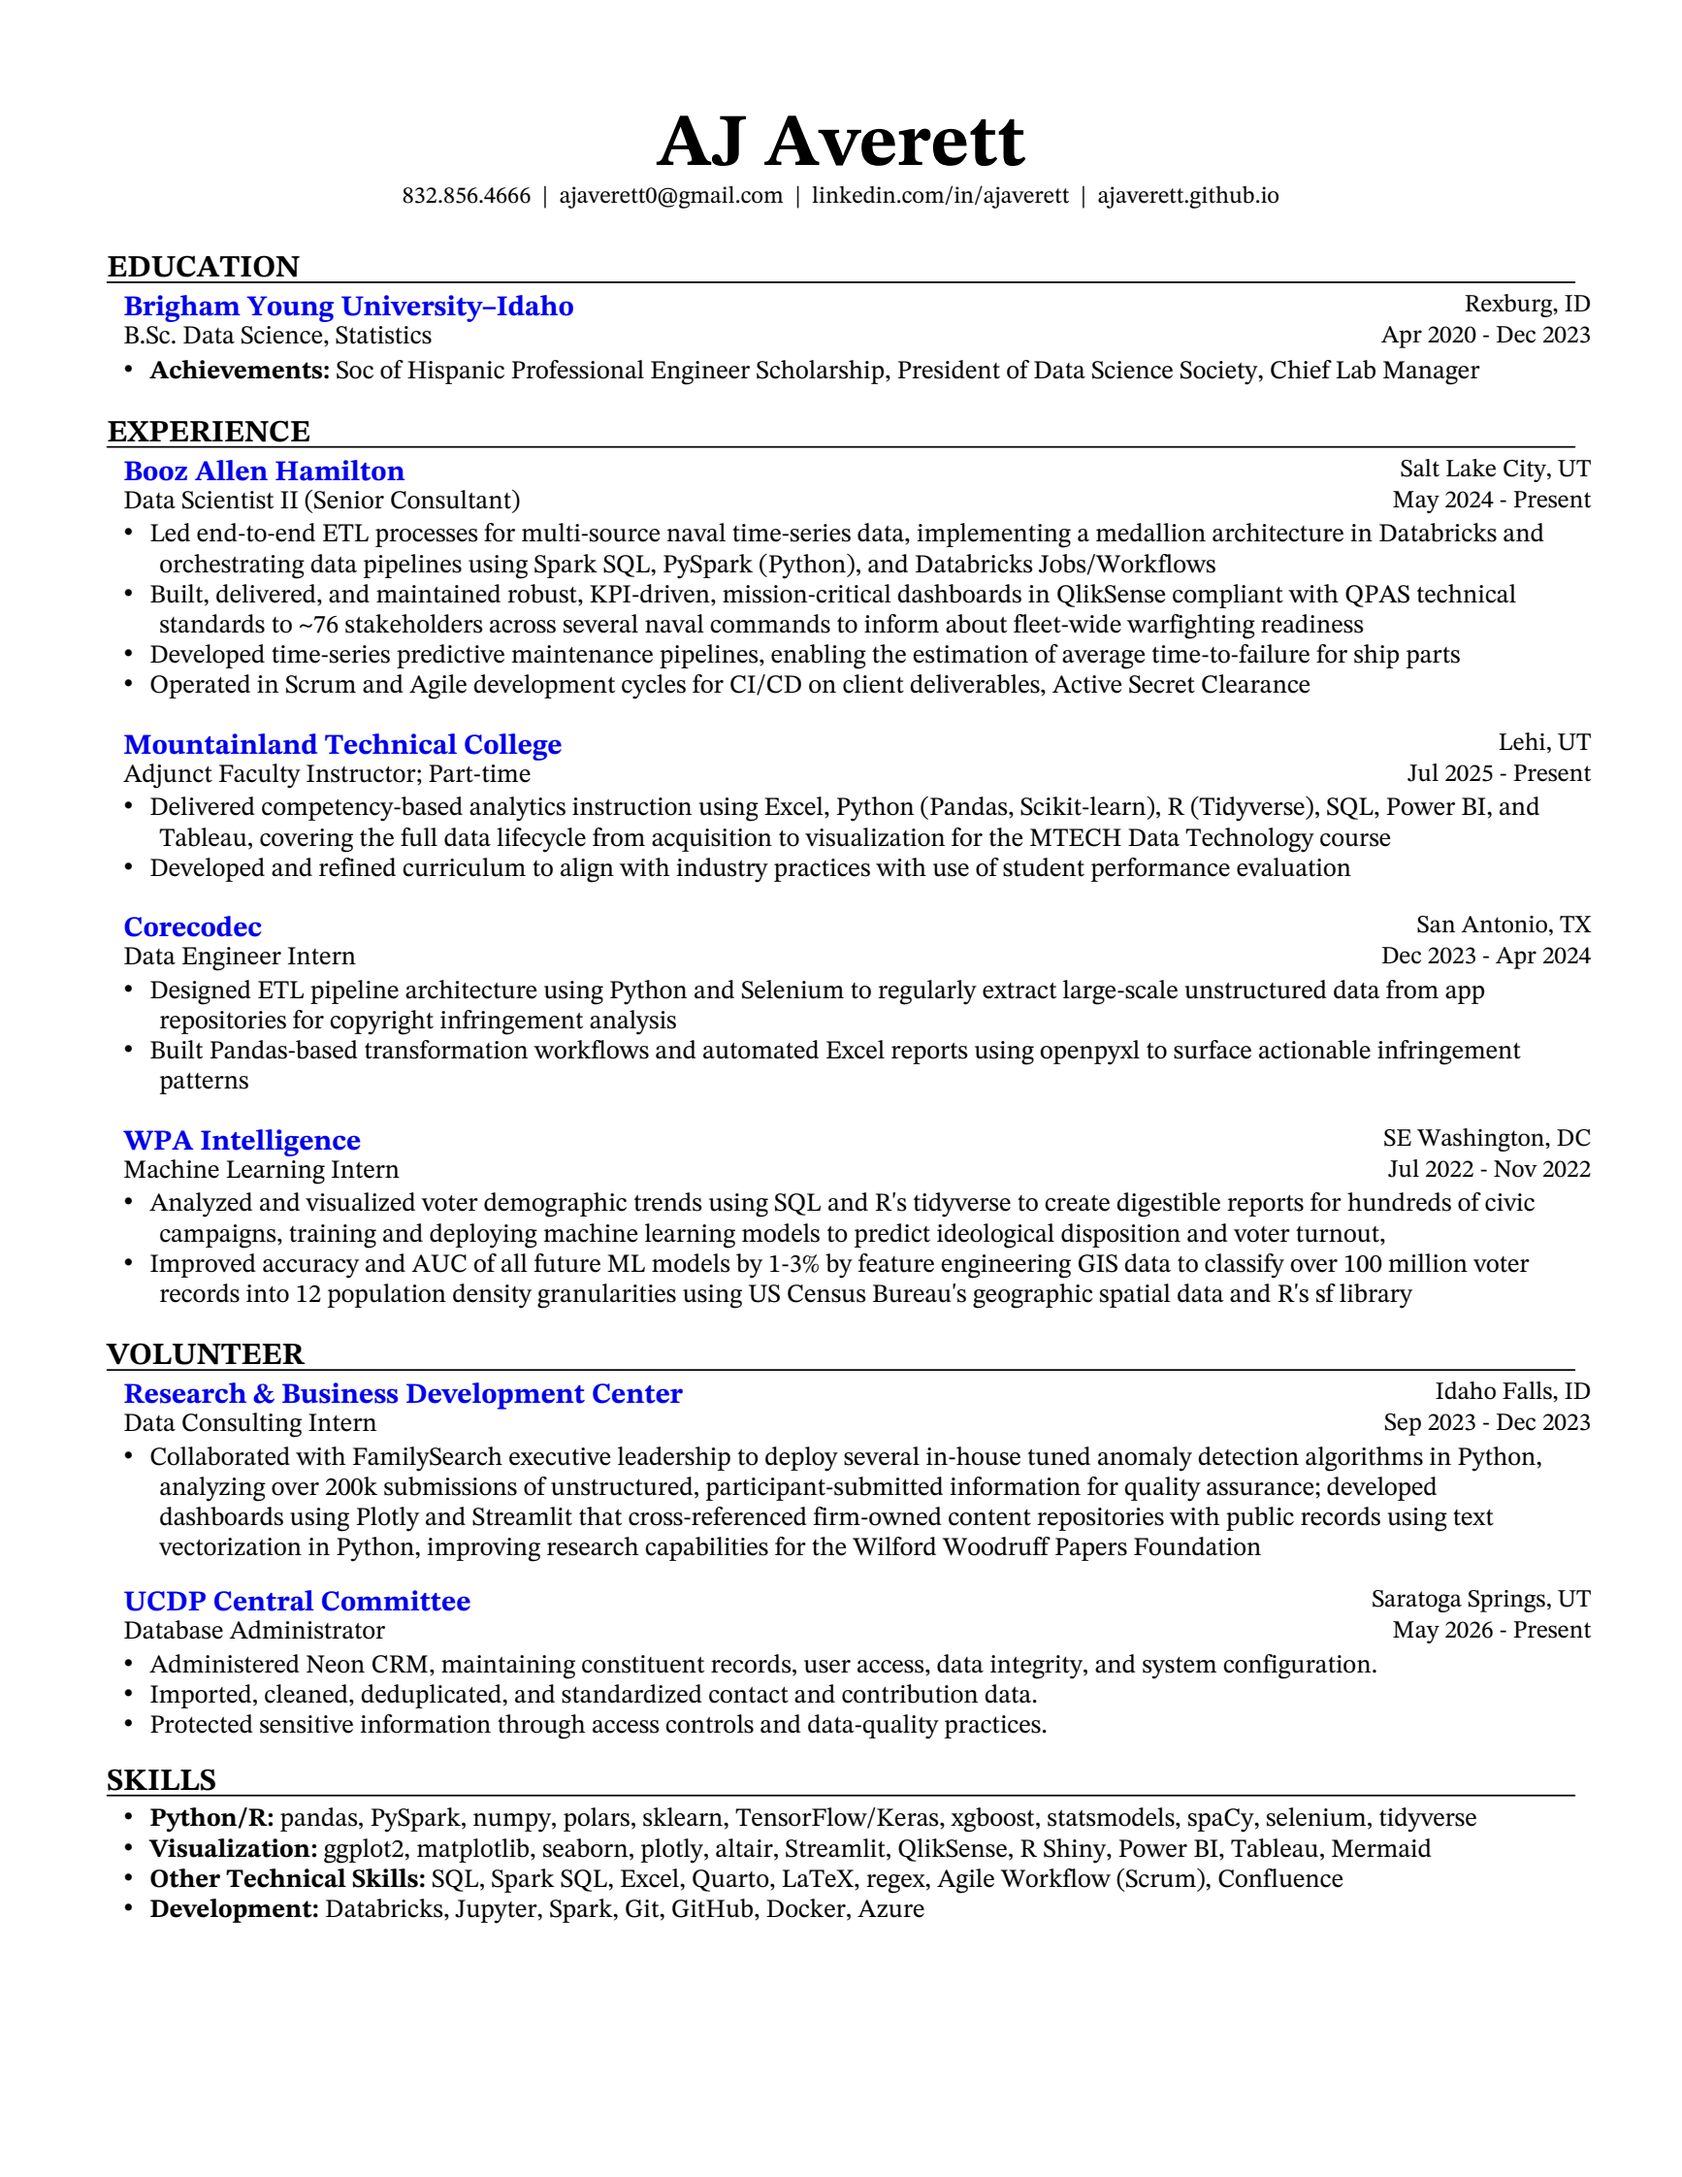
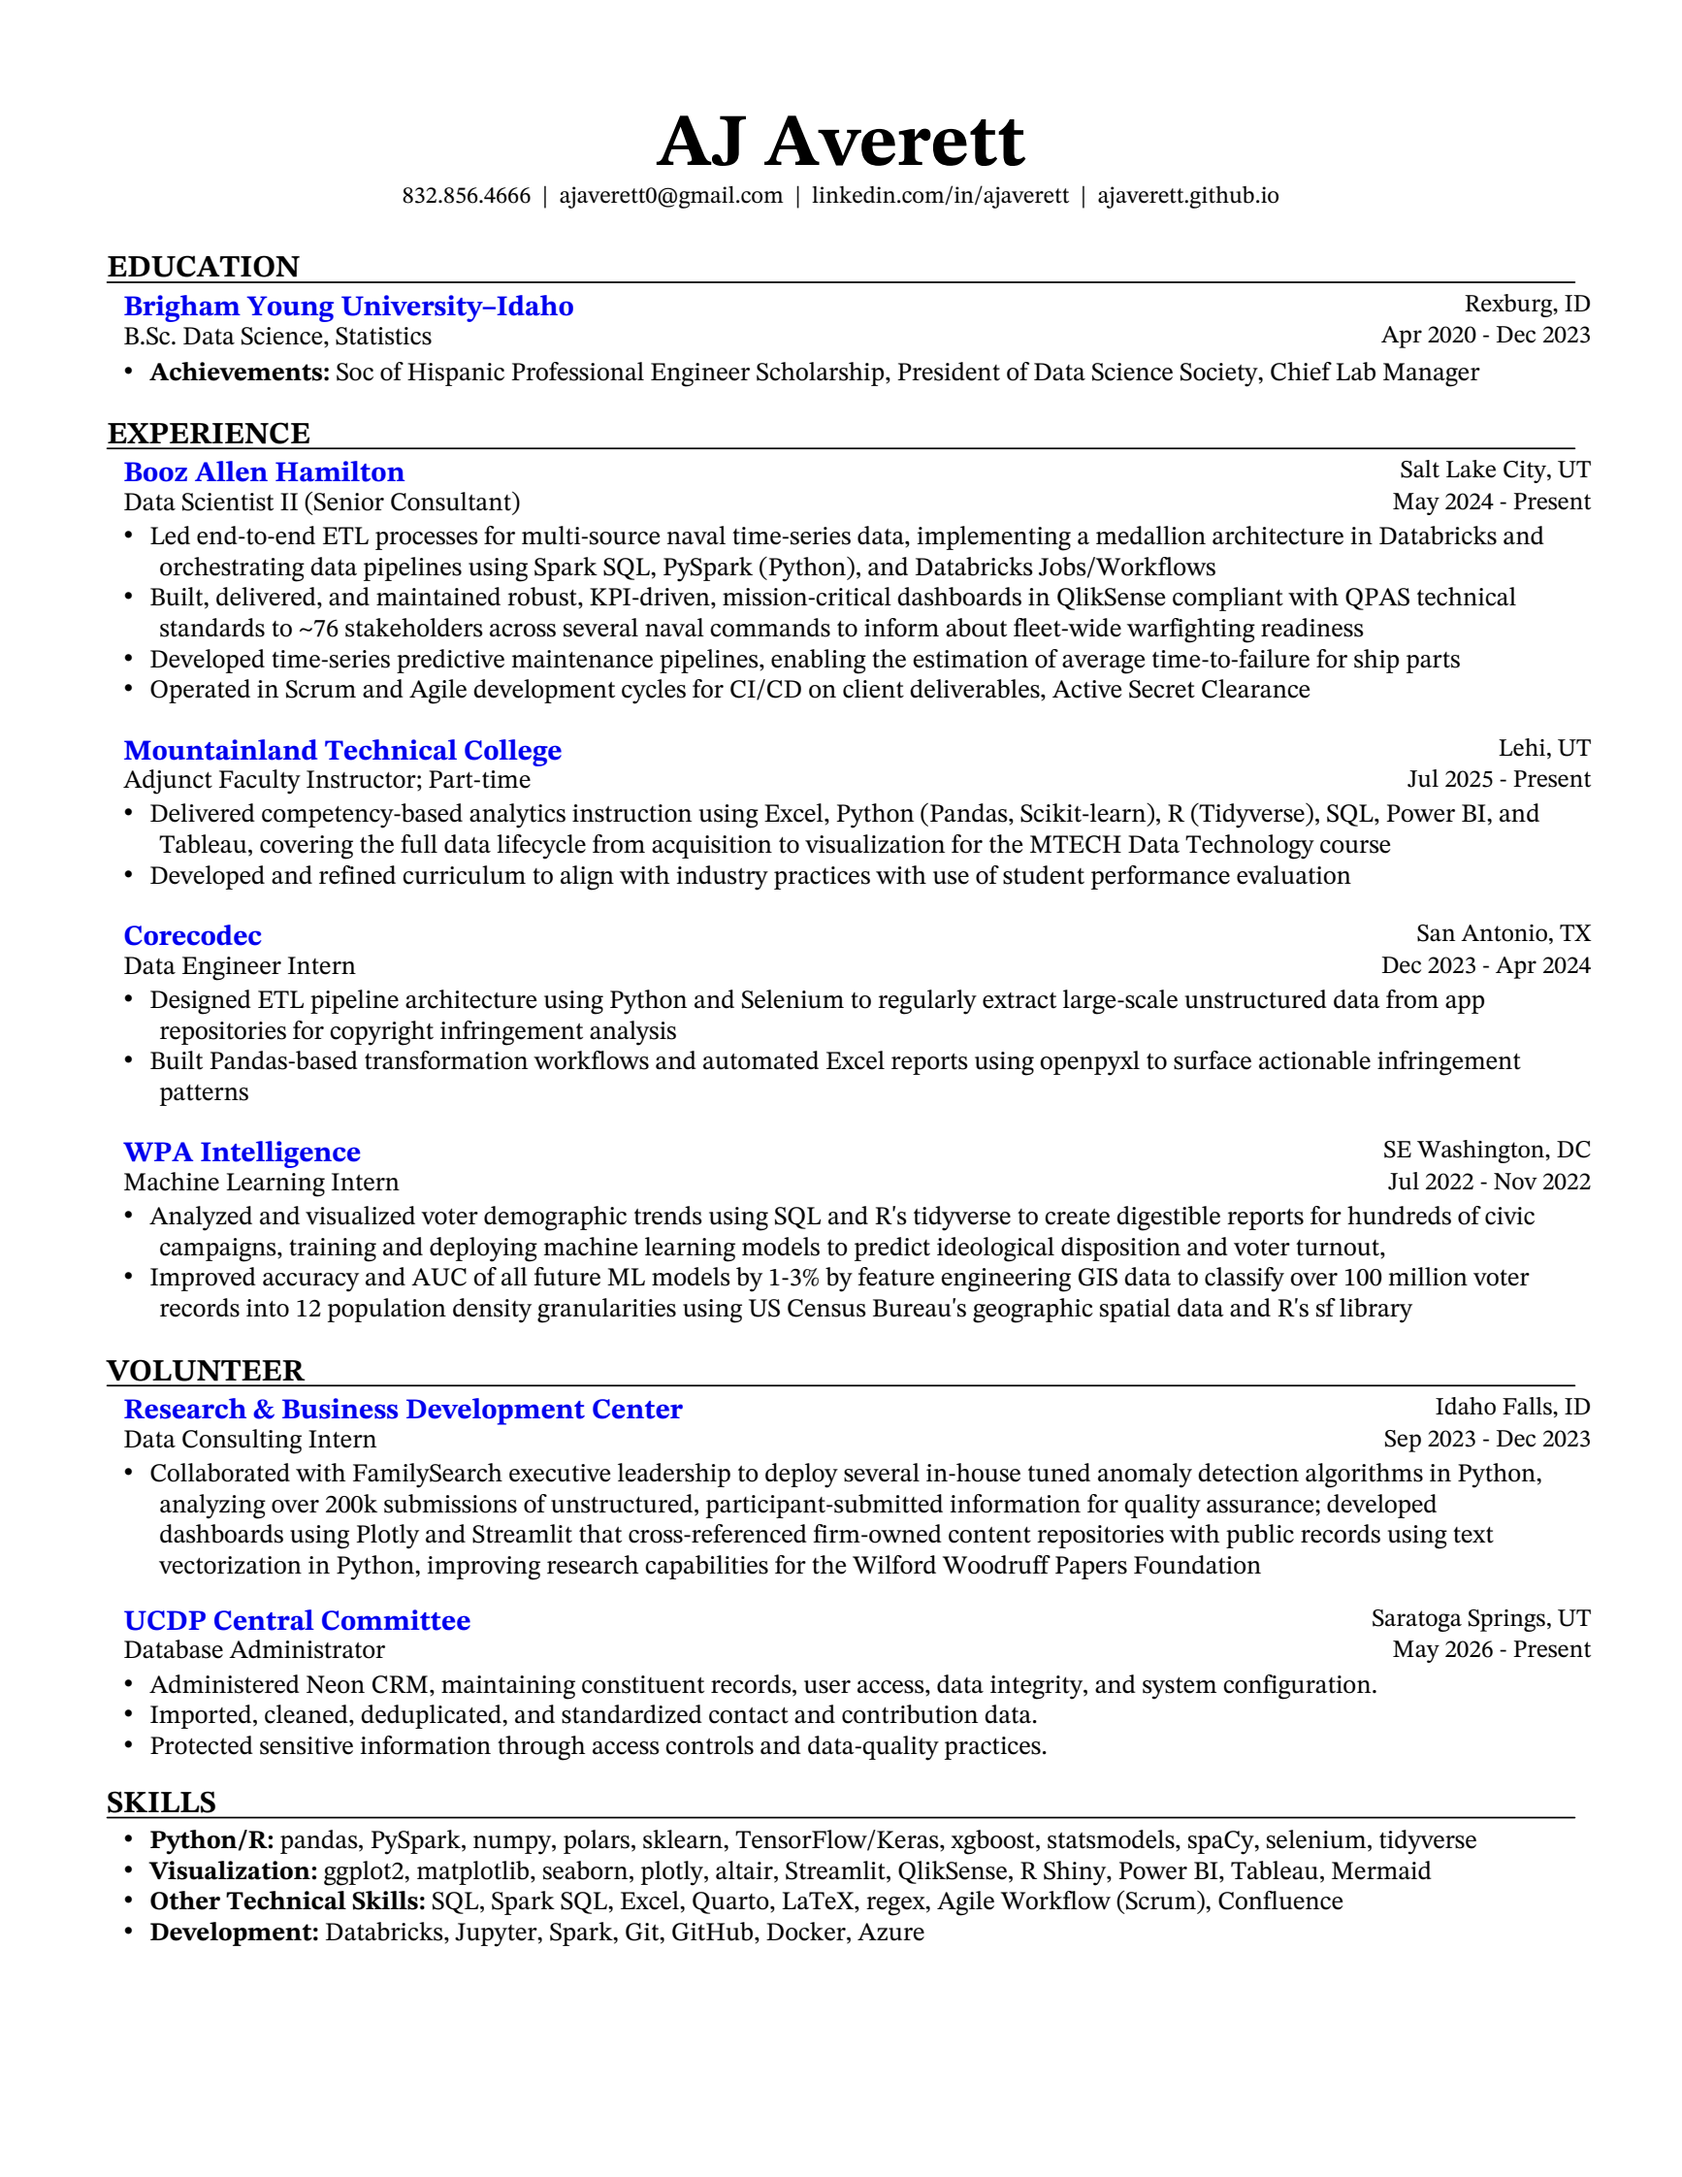
Slightly increase resume vertical spacing

diff --git a/scripts/generate_resume.py b/scripts/generate_resume.py
@@ -130,28 +130,28 @@ def build_pdf(data: dict) -> None:
         "Company",
         fontName=BOLD,
         fontSize=10.4,
-        leading=11.3,
+        leading=11.45,
         textColor=BLUE,
     )
     body_style = ParagraphStyle(
         "Body",
         fontName=REGULAR,
         fontSize=9.4,
-        leading=11,
+        leading=11.15,
     )
     right_style = ParagraphStyle(
         "Right",
         parent=body_style,
         alignment=TA_RIGHT,
         fontSize=9,
-        leading=10.6,
+        leading=10.75,
     )
     achievement_style = ParagraphStyle(
         "Achievement",
         parent=body_style,
         leftIndent=13,
         firstLineIndent=-8,
-        spaceBefore=1.8,
+        spaceBefore=1.9,
     )
     bullet_style = ParagraphStyle(
         "Bullet",
@@ -263,13 +263,15 @@ def build_pdf(data: dict) -> None:
                 )
                 for bullet in role["resumeBullets"]
             ]
-            entry = [heading, Spacer(1, 1.2), *bullets]
+            entry = [heading, Spacer(1, 1.3), *bullets]
             story.append(KeepTogether(entry))
 
             if index != len(group_roles) - 1:
-                story.append(Spacer(1, 10 if group == "experience" else 8))
+                story.append(
+                    Spacer(1, 10.25 if group == "experience" else 8.25)
+                )
 
-        story.append(Spacer(1, 10 if group == "experience" else 8))
+        story.append(Spacer(1, 10.25 if group == "experience" else 8.25))
 
     story.append(section_heading("Skills", section_style))
     story.append(Spacer(1, 1.8))
